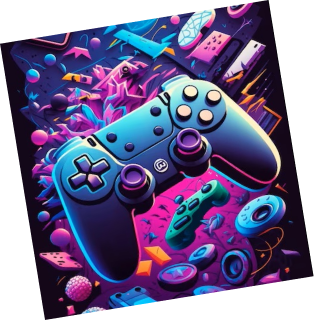
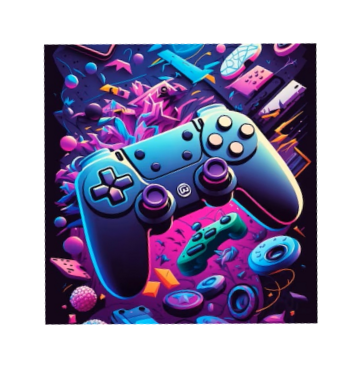
modifs thèmes + images

diff --git a/CSS/Choix_Thème.css b/CSS/Choix_Thème.css
@@ -17,20 +17,18 @@ h1 {
 }
 
 #music {
-    transform: rotate(-3deg);
-    width: 250px;
+    width: 280px;
     border-radius: 20px;
     position: absolute;
-    top: 300px;
-    right: 272px;
+    top: 283px;
+    right: 255px;
 }
 
 #video {
-    transform: rotate(9deg);
-    width: 265px;
+    width: 320px;
     position: absolute;
-    top: 290px;
-    right: 630px;
+    top: 260px;
+    right: 605px;
 }
 
 #sport {
@@ -52,14 +50,65 @@ h1 {
 }
 /* ******effets test *************/
 
-h2 {
-display: none;
+.container {
+    position: relative;
 }
 
-.invisible{
-    display: none;
+#textecaché1 {
+    position: absolute; 
+    padding-left: 285px;
+    margin-top: 5px;
+    font-family: NerkoOne;
+    font-size: 30px;
+    opacity: 0;
+    transition: opacity 0.3s ease-in-out;
 }
 
-.visible{
-    display: block;
+#textecaché2 {
+    position: absolute;
+    padding-left: 745px;
+    margin-top: 5px;
+    font-family: NerkoOne;
+    font-size: 30px;
+    opacity: 0;
+    transition: opacity 0.3s ease-in-out;
+}
+
+#textecaché3 {
+    position: absolute;
+    padding-left: 1090px;
+    margin-top: 5px;
+    font-family: NerkoOne;
+    font-size: 30px;
+    opacity: 0;
+    transition: opacity 0.3s ease-in-out;
+}
+
+#textecaché4 {
+    position: absolute;
+    padding-left: 1470px;
+    margin-top: 5px;
+    font-family: NerkoOne;
+    font-size: 30px;
+    opacity: 0;
+    transition: opacity 0.3s ease-in-out;
+}
+
+
+img:hover {
+    animation: zoom-in-zoom-out 1s ease infinite;
+}
+
+@keyframes zoom-in-zoom-out {
+    0% {
+        transform: scale(1, 1);
+    }
+
+    50% {
+        transform: scale(1.2, 1.2);
+    }
+
+    100% {
+        transform: scale(1, 1);
+    }
 }

diff --git a/Choix Thème.html b/Choix Thème.html
@@ -25,17 +25,19 @@
     <main>
         <div id="choix">
             <h1 id="titre1">Choisi ton thème !</h1>
-            <h2 id="num1">Culture Générale</h2>
-            <h2 id="num2">Sport</h2>
-            <h2 id="num3">Jeux Vidéo</h2>
-            <h2 id="num4">Musique</h2>
+        </div>
+        <div class="container">
+            <p id="textecaché1">Culture Générale</p>
+            <p id="textecaché2">Sport</p>
+            <p id="textecaché3">Jeux-vidéo</p>
+            <p id="textecaché4">Musique</p>
         </div>
 
-        <a href="Quiz - Musique.html"><img src="./Images/Slider_Musique.png" id="music" alt="Musique"></a>
-        <a href="Quiz - Jeux.html"><img src="./Images/Slider_Jeux.png" id="video" alt="Video"></a>
-        <a href="Quiz - Sport.html"><img src="./Images/Slider_Sport.png" id="sport" alt="sport"></a>
         <a href="Quiz - Culture Générale.html"><img src="./Images/Slider_Culture.jpg" id="culture" alt="culture_g"></a>
-
+        <a href="Quiz - Sport.html"><img src="./Images/Slider_Sport.png" id="sport" alt="sport"></a>
+        <a href="Quiz - Jeux.html"><img src="./Images/Slider_Jeux.png" id="video" alt="video"></a>
+        <a href="Quiz - Musique.html"><img src="./Images/Slider_Musique.png" id="music" alt="Musique"></a>
+        
     </main>
 
     <footer>
@@ -48,7 +50,7 @@
             <a href=""><img src="./Images/Instagram.png" alt="logo_Insta" width="30px"></a>
         </div>
     </footer>
-    <script src="JS/Thèmes.js"></script>
+    <script src="/JS/Thèmes.js"></script>
 </body>
 
 </html>

diff --git a/JS/jeux.js b/JS/jeux.js
@@ -26,27 +26,27 @@ function checkIsGoodAnwser(goodAnswer) {
 // *******Liste des questions*********
 const infos = [
   {
-    question: "Que perdez-vous si vous êtes « aphone » ?",
-    reponseA: "Votre téléphone",
-    reponseB: "Votre équilibre",
-    reponseC: "Votre voix",
-    reponseD: "Votre odorat",
-    bonnereponse: "reponseC",
+    question: "Quel jeu vidéo a popularisé le genre roguelike ?",
+    reponseA: "The Binding of Issac",
+    reponseB: "Hades",
+    reponseC: "Risk of Rain",
+    reponseD: "Darkest Dungeon",
+    bonnereponse: "reponseA",
   },
   {
-    question: "Comment appelle-t-on les habitants de Madagascar ? ",
-    reponseA: "Les madoux",
-    reponseB: "Les malgaches",
-    reponseC: "Les madagascons",
-    reponseD: "Les madascaris",
+    question: "Quelle est la toute première extension de World of Warcraft ?",
+    reponseA: "Mists of Pandaria",
+    reponseB: "The Burning Crusade",
+    reponseC: "Dragonflight",
+    reponseD: "Shadowlands",
     bonnereponse: "reponseB",
   },
   {
-    question: "Combien de jours compte une année bissextile ?",
-    reponseA: "365 Jours",
-    reponseB: "364 Jours",
-    reponseC: "367 Jours ",
-    reponseD: "366 Jours",
+    question: "Dans Final Fantasy XIV, quel primordial règne sur les tempêtes et est considéré comme le gardien du cristal du vent ?",
+    reponseA: "Ifrit",
+    reponseB: "Shiva",
+    reponseC: "Ramuh",
+    reponseD: "Garuda",
     bonnereponse: "reponseD",
   },
 ];

diff --git a/JS/Thèmes.js b/JS/Thèmes.js
@@ -7,3 +7,18 @@
 //   document.getElementById("titre1").classList.toggle("invisible");
 
 // });
+
+document.addEventListener("DOMContentLoaded", function() {
+    const images = document.querySelectorAll("#culture, #sport, #video, #music");
+    const textesCaches = document.querySelectorAll("#textecaché1, #textecaché2, #textecaché3, #textecaché4");
+
+    images.forEach(function(image, index) {
+        image.addEventListener("mouseenter", function() {
+            textesCaches[index].style.opacity = 1; // Apparaître
+        });
+
+        image.addEventListener("mouseleave", function() {
+            textesCaches[index].style.opacity = 0; // Disparaître
+        });
+    });
+});

diff --git a/Quiz - Jeux.html b/Quiz - Jeux.html
@@ -61,7 +61,7 @@
                     <p id="final1" class="pt-5">Score <br> <span id="monscore"></span>/3</p>
                 </div>
                 <div>
-                    <p id="final2" class="pt-4">Réponses <br> <br> 1. Votre voix <br> 2. Les malgaches <br> 3. 366 Jours
+                    <p id="final2" class="pt-4">Réponses <br> <br> 1. The Binding of Isaac <br> 2. The Burning Crusade <br> 3. Garuda
                     </p>
                 </div>
             </div>

diff --git a/Connexion_Inscription.html b/Connexion_Inscription.html
@@ -55,7 +55,7 @@
                 <input type="password" name="MdP" class="bouton" placeholder="Mot de passe" required=""><br><br>
                 <input type="submit" id="connexion" value="Connexion"><br><br>
                 <br>
-                <a href="Mot de passe.html" id="mdp_oublie">Mot de passe oublié ?</a>
+                <a href="MotDePasse.html" id="mdp_oublie">Mot de passe oublié ?</a>
                 <br>
             </form>
         </div>

diff --git a/CSS/index.css b/CSS/index.css
@@ -68,27 +68,21 @@
 /* Styles spécifiques pour chaque classe d'image */
 
 .slide.culture img {
-    transform: rotate(0.5deg);
     width: 400px;
     height: 200px;
 }
 
 .slide.jeux img {
-    transform: rotate(6deg);
     width: 400px;
     height: 200px;
 }
 
 .slide.musique img {
-    transform: rotate(-3deg);
     width: 400px;
     height: 200px;
-    border-radius: 20px;
-
 }
 
 .slide.sport img {
     width: 400px;
     height: 200px;
-
 }
